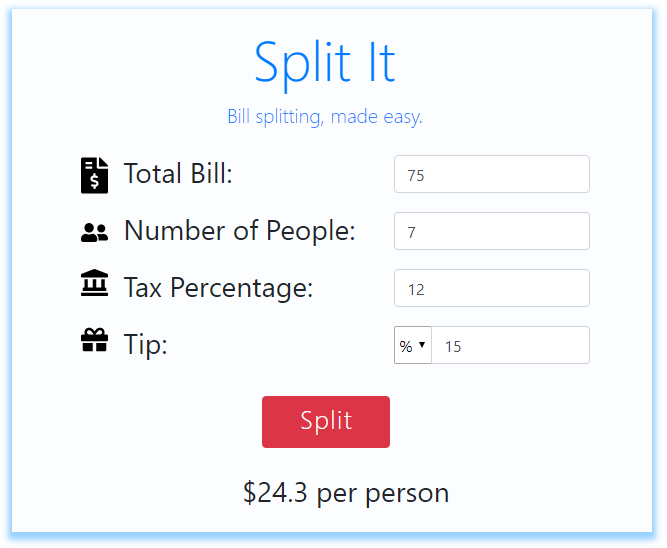
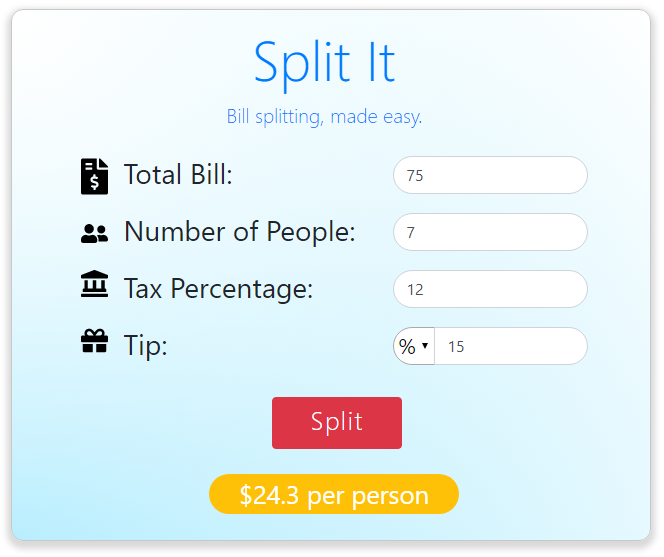
Changed how result looks

diff --git a/style.css b/style.css
@@ -44,8 +44,9 @@ form h3
 
 .split-button
 {
-    width: 25%;
-    margin-left: 24%;
+    position: inherit;
+    width: 130px;
+    margin-left: 26%;
 }
 
 .split-button h5
@@ -61,6 +62,18 @@ form h3
     margin-bottom: 5%;
     margin-left: 20%;
     font-weight: 400;
+}
+
+.result span
+{
+    position: inherit;
+    margin-left: -8%; 
+    width: 250px;
+    height: 40px;
+    border-radius: 45px;
+    font-weight: 400;
+    font-size: 1.6rem;
+    color: white;
 }
 
 .dropdown-item
@@ -132,3 +145,5 @@ form h3
 {
     cursor: pointer;
 }
+
+

diff --git a/index.php b/index.php
@@ -93,12 +93,16 @@ $app = new Application;
 
         </form>
 
-
-        <?php //if($app->compute() > 0): ?>
+        
+        <?php if($app->compute() == 0): ?>
             <div class="result">
                 <h3> $<?= $app->compute() ?> per person </h3>  
             </div>
-        <?php //endif; ?>
+        <?php else: ?>
+            <div class="result">
+                <h3> <span class="badge badge-warning" > <?= "$" . $app->compute() ?>  per person </span> </h3>  
+            </div>
+        <?php endif; ?>
         
   </div>
 
